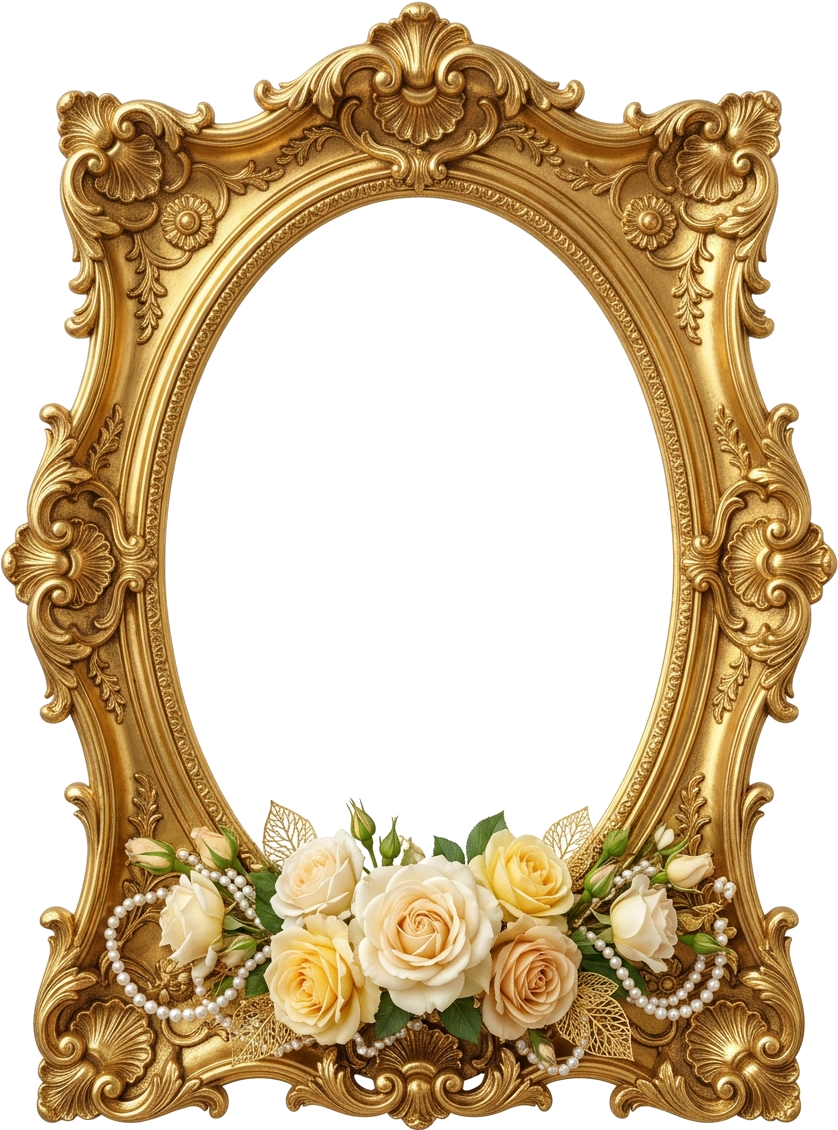
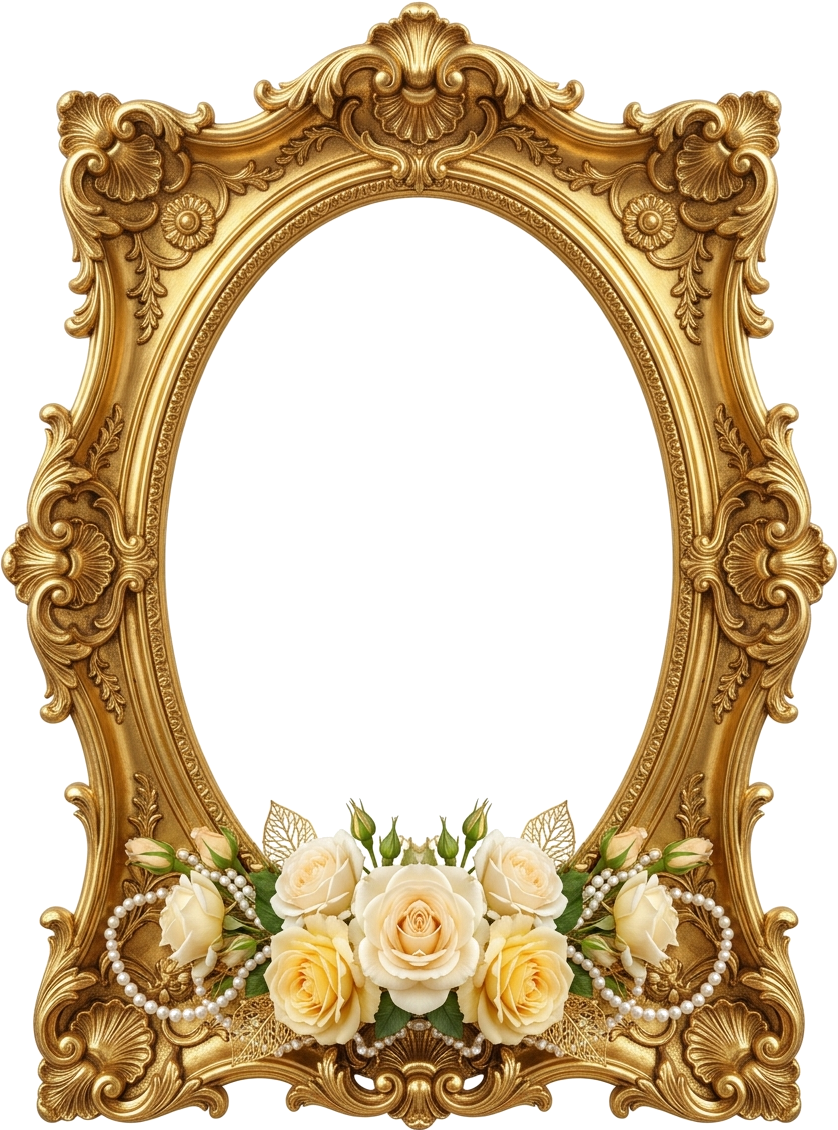
fix(victoriarosales): eliminate frame asset skew, achieve 100% mathematical symmetry, and balance hero layout

Changed region(s): [[0.4964, 0.0, 1.0, 1.0]]

diff --git a/victoriarosales/style.css b/victoriarosales/style.css
@@ -556,24 +556,9 @@ body.site-entered .lang-control-bar {
 .flower-card-top-left,
 .feather-top-left,
 .flower-card-bottom-left,
-.flower-card-bottom-right {
-  display: none !important;
-}
-
+.flower-card-bottom-right,
 .flower-card-top-right {
-  display: block !important;
-  visibility: visible !important;
-  top: -52px;
-  right: -52px;
-  width: 280px;
-  height: 280px;
-  max-width: 55vw;
-  max-height: 55vw;
-  transform: none;
-  transform-origin: top right;
-  opacity: 1 !important;
-  z-index: 30;
-  filter: drop-shadow(0 10px 22px rgba(157, 116, 26, 0.16)) drop-shadow(0 2px 6px rgba(201, 159, 87, 0.18));
+  display: none !important;
 }
 
 /* Inside Envelope Card Mini Floral Accent */
@@ -831,23 +816,25 @@ body.site-entered .lang-control-bar {
 
 /* ── BAROQUE OVAL FRAME & ROSES CELEBRANT CENTERPIECE ── */
 .baroque-frame-stage {
-  position: relative;
-  width: 100%;
-  max-width: 440px;
-  margin: 0.2rem auto 0.6rem;
-  display: flex;
-  justify-content: center;
-  align-items: center;
+  position: relative !important;
+  width: 100% !important;
+  max-width: 100% !important;
+  margin: 0.2rem auto 0.6rem !important;
+  display: flex !important;
+  justify-content: center !important;
+  align-items: center !important;
+  padding: 0 !important;
+  overflow: visible !important;
 }
 
 .baroque-frame-container {
-  position: relative;
-  width: min(88vw, 360px);
-  aspect-ratio: 838 / 1130;
-  margin: 0 auto;
-  display: flex;
-  justify-content: center;
-  align-items: center;
+  position: relative !important;
+  width: min(100%, 305px) !important;
+  aspect-ratio: 838 / 1130 !important;
+  margin: 0 auto !important;
+  display: flex !important;
+  justify-content: center !important;
+  align-items: center !important;
 }
 
 .baroque-frame-container .photo-viewport,
@@ -863,7 +850,7 @@ body.site-entered .lang-control-bar {
   border-radius: 50% !important;
   overflow: hidden !important;
   z-index: 1 !important;
-  background: linear-gradient(150deg, #fdfbf7 0%, #f6f0e3 50%, #eee4d1 100%) !important;
+  background: radial-gradient(ellipse at 50% 50%, #ffffff 0%, #fcf8f0 60%, #f4ede0 100%) !important;
   border: none !important;
   box-shadow: none !important;
   margin: 0 !important;
@@ -4293,23 +4280,12 @@ html.og-mode .entry-stage-mount {
     top: 57.5%;
   }
 
-  /* Invitation Card Corner Flowers: Contained within Viewport */
+  /* Invitation Card Corner Flowers: Disabled for Clean Baroque Centering */
   .flower-card-top-left,
   .flower-card-bottom-left,
-  .flower-card-bottom-right {
-    display: none !important;
-  }
-
+  .flower-card-bottom-right,
   .flower-card-top-right {
-    top: -38px;
-    right: -25px;
-    width: 180px;
-    height: 180px;
-    display: block !important;
-    visibility: visible !important;
-    opacity: 1 !important;
-    transform: none;
-    transform-origin: top right;
+    display: none !important;
   }
 
   /* Mobile Floating Utility Controls (Language Left, Music Right) */
@@ -4423,6 +4399,22 @@ html.og-mode .entry-stage-mount {
     width: 80%;
     max-width: 300px;
     margin: 0.6rem auto 1.4rem;
+  }
+
+  .baroque-frame-stage {
+    width: 100% !important;
+    max-width: 100% !important;
+    margin: 0.2rem auto 0.6rem !important;
+    display: flex !important;
+    justify-content: center !important;
+    align-items: center !important;
+    padding: 0 !important;
+  }
+
+  .baroque-frame-container {
+    width: min(100%, 295px) !important;
+    aspect-ratio: 838 / 1130 !important;
+    margin: 0 auto !important;
   }
 
   .parents-line {

diff --git a/victoriarosales/index.html b/victoriarosales/index.html
@@ -45,7 +45,7 @@
     href="https://fonts.googleapis.com/css2?family=Alex+Brush&family=Cormorant+Garamond:ital,wght@0,400;0,500;0,600;0,700;1,400&family=Montserrat:wght@300;400;500;600;700&family=Playfair+Display:ital,wght@0,400;0,600;0,700;1,400&display=swap"
     rel="stylesheet">
 
-  <link rel="stylesheet" href="style.css?v=1.0.9" />
+  <link rel="stylesheet" href="style.css?v=1.1.0" />
 </head>
 
 <body>
@@ -252,12 +252,6 @@
     <div class="invitation-gradient-glow" aria-hidden="true"></div>
     <main class="invitation-wrapper">
 
-      <!-- Luxury Corner Floral Arrangement in Top Right -->
-      <div class="invitation-floral-frame" aria-hidden="true">
-        <img src="photos/rose-corner-tr.png?v=2" alt=""
-          class="invitation-flower-spray flower-card-top-right" />
-      </div>
-
       <!-- Ornate Gold Filigree Corner Accents on Card Frame -->
       <div class="corner-filigree corner-top-left" aria-hidden="true"></div>
       <div class="corner-filigree corner-top-right" aria-hidden="true"></div>
@@ -277,14 +271,14 @@
       </div>
 
       <!-- Celebrant Portrait Centerpiece with Ornate Baroque Frame & Flowers -->
-      <div class="photo-stage baroque-frame-stage scroll-fade-scale">
+      <div class="baroque-frame-stage scroll-fade-scale">
         <div class="baroque-frame-container">
           <!-- The Photo / Placeholder sits behind the frame opening -->
           <div class="photo-viewport photo-placeholder">
             <span class="photo-placeholder-text">&lt;photo here&gt;</span>
           </div>
           <!-- 3D Antique Gold Baroque Frame with Roses Overlay -->
-          <img src="photos/baroque-oval-frame.png?v=1" alt="Ornate Gold Baroque Frame" class="baroque-frame-overlay" aria-hidden="true" />
+          <img src="photos/baroque-oval-frame.png?v=2" alt="Ornate Gold Baroque Frame" class="baroque-frame-overlay" aria-hidden="true" />
         </div>
       </div>
 
